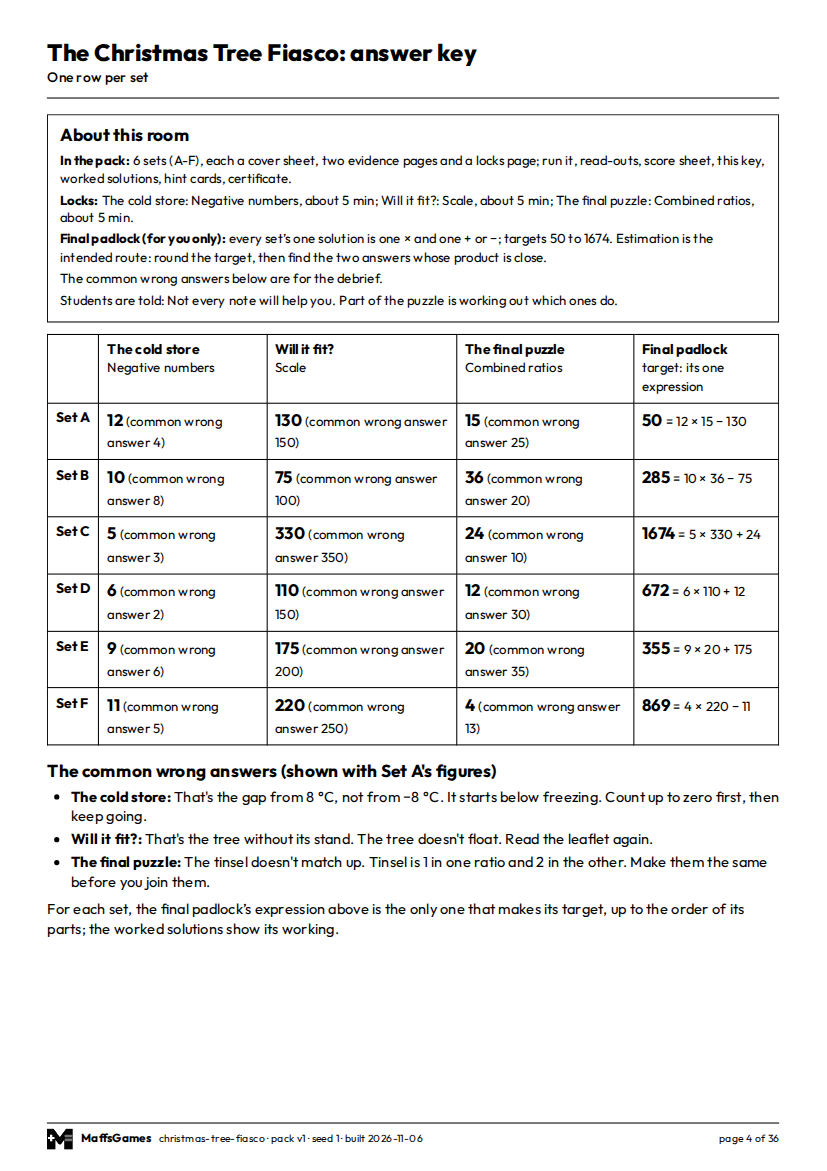
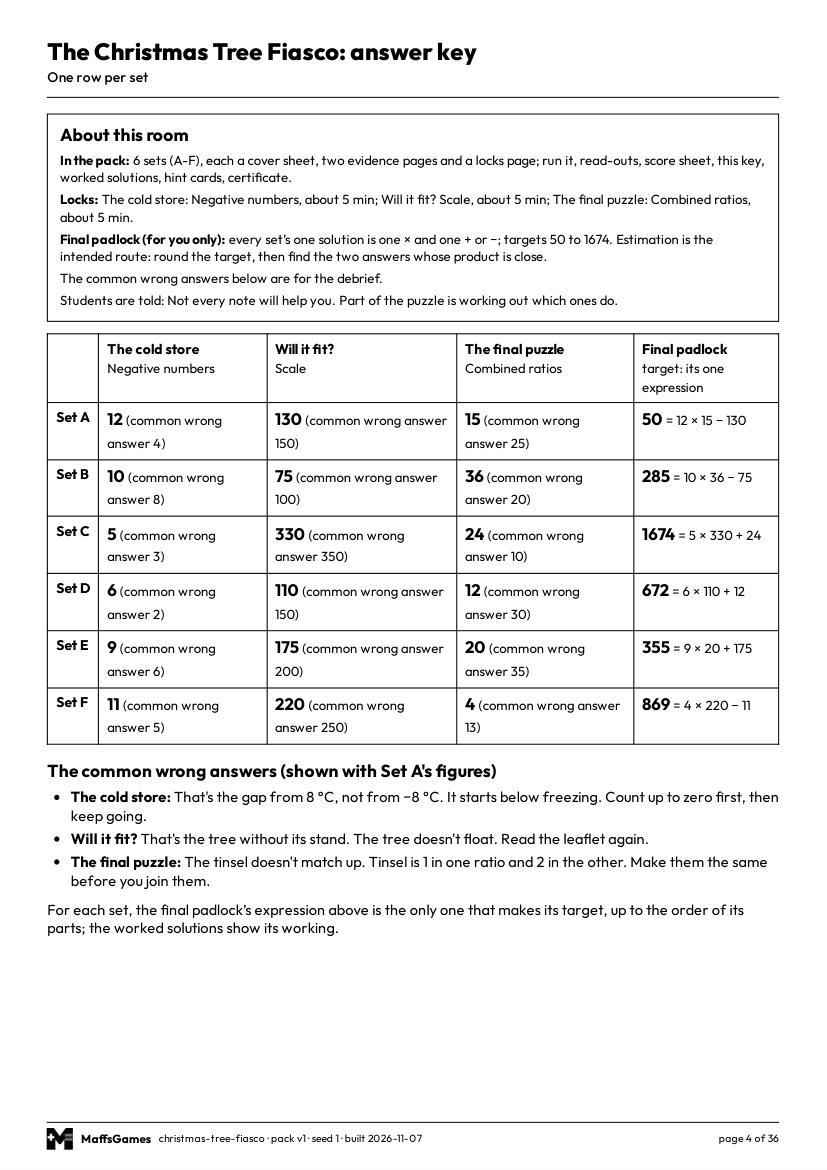
Fix Christmas pack label lines and lock punctuation

diff --git a/tools/pack-generator/build_pack.py b/tools/pack-generator/build_pack.py
@@ -396,7 +396,8 @@ def split_clue(clue):
 
 def label_parts(text, boxes):
     """Split a clue over multiple measured glass areas, then bind figures before browser fitting."""
-    parts = text.split(" · ") if isinstance(boxes[0], list) else [text]
+    segments = text.split(" · ")
+    parts = segments if isinstance(boxes[0], list) else ["<br>".join(segments)]
     count = len(boxes) if isinstance(boxes[0], list) else 1
     if len(parts) != count:
         raise BuildError("label has %d printed parts for %d boxes: %r" % (len(parts), count, text))
@@ -414,7 +415,7 @@ def label_parts(text, boxes):
 
 def label_text_problems(text):
     """Figure spacing and TRUE-MINUS checks on the words that enter a fitted label."""
-    return [m.group() for pattern in (r"(?<!\w)-\d", r"\d[ \t\n]+:[ \t\n]+[\u2212-]?\d",
+    return [m.group() for pattern in (r" · ", r"(?<!\w)-\d", r"\d[ \t\n]+:[ \t\n]+[\u2212-]?\d",
                                      r"\d[ \t\n]+(?:°C|cm|mm|km|m|%|kg|g|hours?|mins?|minutes?)(?!\w)")
             for m in re.finditer(pattern, text, re.I)]
 
@@ -761,13 +762,17 @@ def run_it(letters, url, set_pages=SET_PAGES):
             % (letters[0], letters[-1], set_pages))
 
 
+def lock_name_label(name):
+    return name if name.rstrip().endswith(("?", "!")) else name + ":"
+
+
 def about_box(room, teach, locks, sets):
     """The answer key's "About this room" box (Amendment 9): contents, each lock's topic and time, the grade, the final
     padlock's shape and target range, and what the common wrong answers are for. It states no rule."""
     meta = teach.get("lockMeta") or [{}] * len(locks)
     first_note = re.search(r"<p[^>]*>(.*?)</p>", teach.get("notes", ""), re.S)
     letters = [st["letter"] for st in sets]
-    topics = "; ".join("%s: %s%s" % (l["name"], esc(m.get("topic", "")),
+    topics = "; ".join("%s %s%s" % (lock_name_label(l["name"]), esc(m.get("topic", "")),
                                      (", about %d min" % m["minutes"]) if m.get("minutes") else "")
                        for l, m in zip(locks, meta))
     targets = [st["final"]["target"] for st in sets]
@@ -939,7 +944,7 @@ def build_html(slug, room, teach, locks, sets, cfg, seed, built, url):
         "<td class='n'>%s <span class='wrong'>(common wrong answer %s)</span></td>"
         % (format_token(v["answer"]), format_token(v["miss"]) if v.get("miss") is not None else "none")
         for v in s["vars"]), s["final"]["target"], s["final"]["expr"]) for s in sets)
-    legend = "".join("<li><b>%s:</b> %s %s</li>" % (l["name"], fill_a(l.get("missTitle", "")),
+    legend = "".join("<li><b>%s</b> %s %s</li>" % (lock_name_label(l["name"]), fill_a(l.get("missTitle", "")),
                                                      fill_a(l.get("missSays", "")))
                      for l in locks)
     final_note = ("<p>For each set, the final padlock&rsquo;s expression above is the only one that makes its target, "
@@ -957,7 +962,7 @@ def build_html(slug, room, teach, locks, sets, cfg, seed, built, url):
         work = ("%s first: %s; then + and &minus;: %s" % (first, "; ".join(md), "; ".join(pm)) if md
                 else "+ and &minus; from left to right: %s" % "; ".join(pm))
         sols += "<div class='solution'><b class='set'>Set %s</b><br>%s<br><b>Final padlock:</b> %s = %s. %s.</div>" % (
-            s["letter"], "<br>".join("<b>%s:</b> %s" % (l["name"], f(l["solve"])) for l in locks),
+            s["letter"], "<br>".join("<b>%s</b> %s" % (lock_name_label(l["name"]), f(l["solve"])) for l in locks),
             fin["expr"], fin["target"], work)
     pages.append(page("solutions", sols, "%s: worked solutions" % title, "One line per lock and the final padlock, for each set"))
 
@@ -1263,6 +1268,20 @@ def selftest():
             return [str(e)] if "printed parts for" in str(e) else []
         return []
 
+    def plant_unsplit_single_box():
+        good = label_parts("FIRST · SECOND", [0, 0, 1, 1])[0]
+        if good != "FIRST<br>SECOND":
+            return []
+        bad = pc.apply_plant(good, "<br>", " · ", name="an unsplit single-box label")
+        return label_text_problems(bad)
+
+    def plant_question_colon():
+        good = lock_name_label("Will it fit?")
+        if good != "Will it fit?" or lock_name_label("Stop!") != "Stop!" or lock_name_label("Other") != "Other:":
+            return []
+        bad = pc.apply_plant(good, "?", "?:", name="a colon after a question lock name")
+        return [bad] if bad.endswith("?:") else []
+
     def plant_broken_unit():
         good = label_parts("AT 16 °C", [0, 0, 1, 1])[0]
         bad = pc.apply_plant(good, "16\u00a0°C", "16 °C", name="a split number and unit")
@@ -1428,6 +1447,8 @@ def selftest():
               ("a missing score-sheet row", plant_missing_row),
               ("a per-set hint page counted inside a set's range", plant_hint_inside_set_range),
               ("a clue with a different number of parts and label boxes", plant_label_box_count),
+              ("an unsplit single-box label", plant_unsplit_single_box),
+              ("a colon after a question lock name", plant_question_colon),
               ("a number separated from its unit", plant_broken_unit),
               ("a ratio broken around its colon", plant_broken_ratio),
               ("a hyphen-minus on printed art", plant_hyphen_minus),
